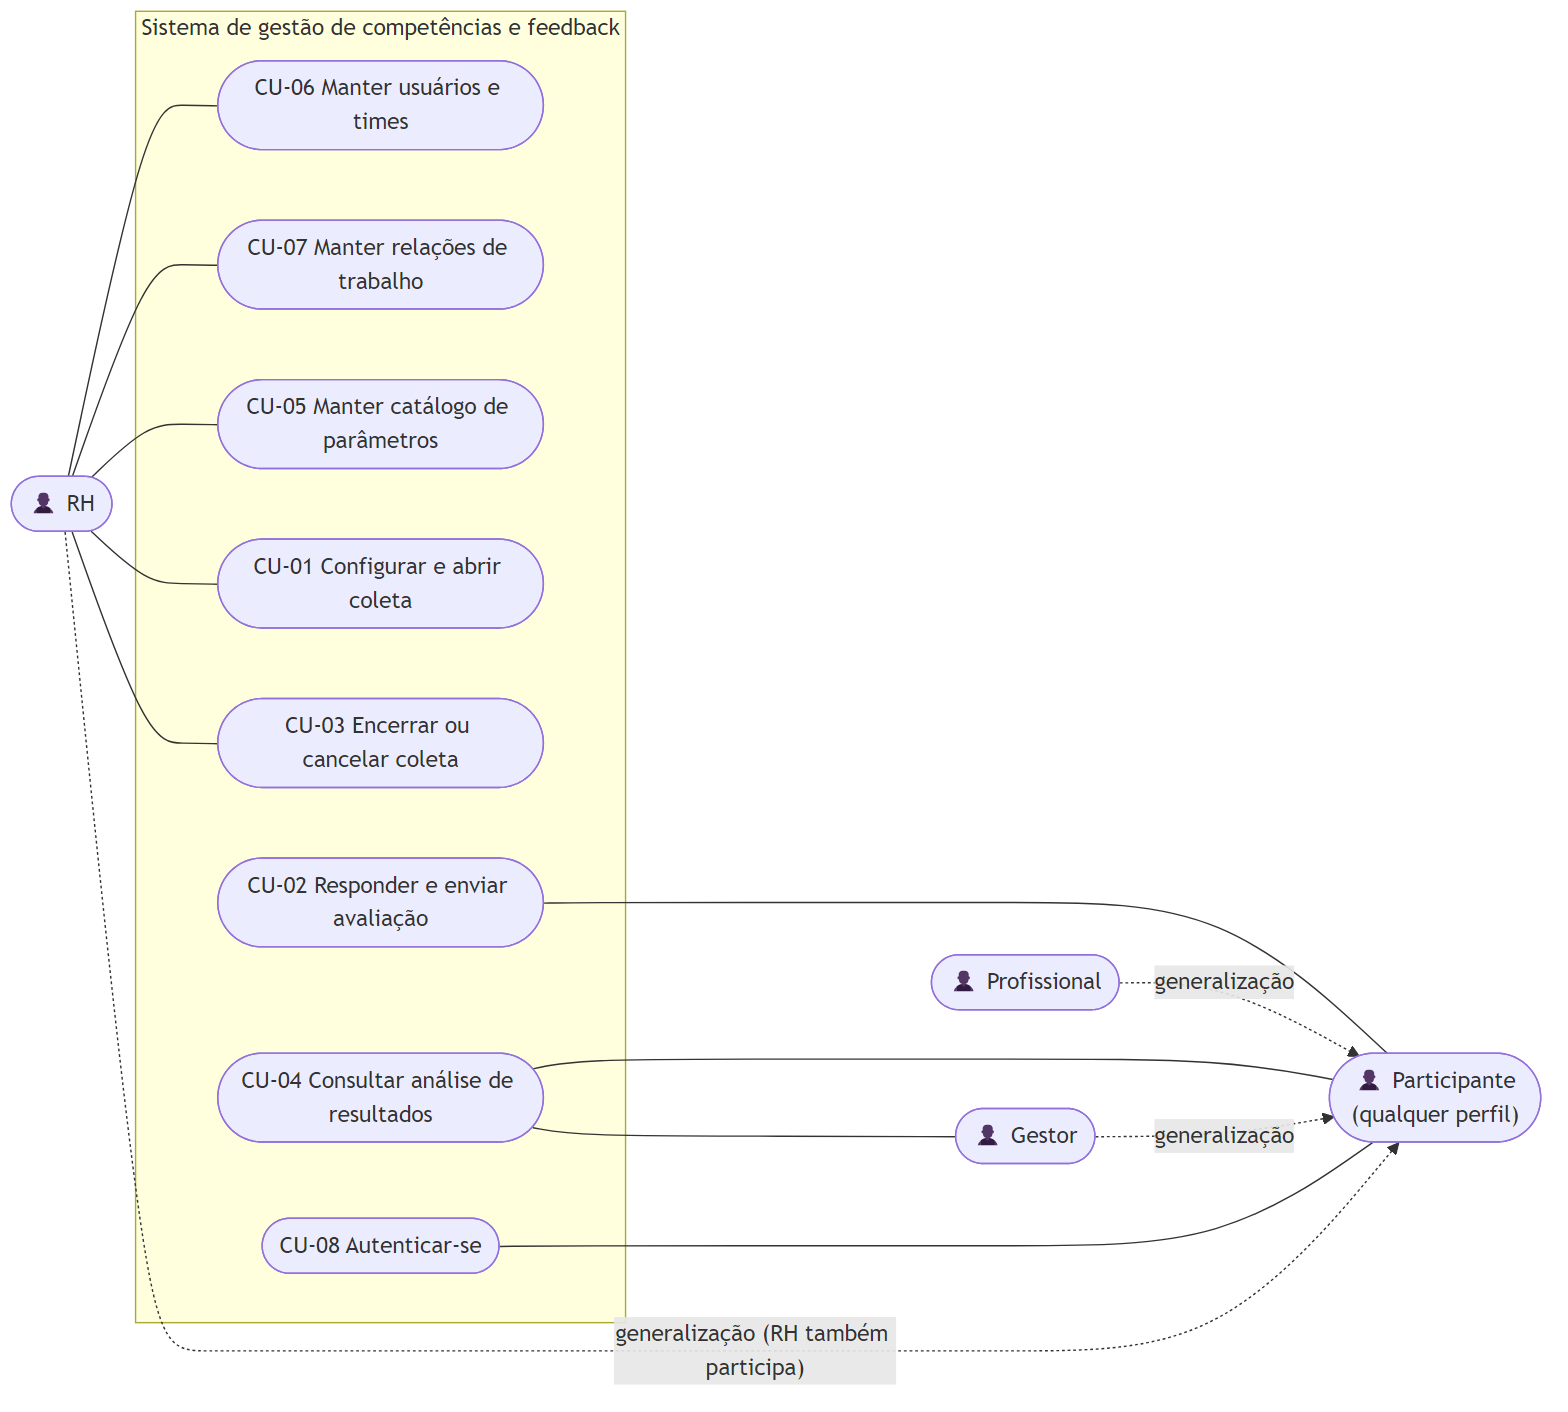
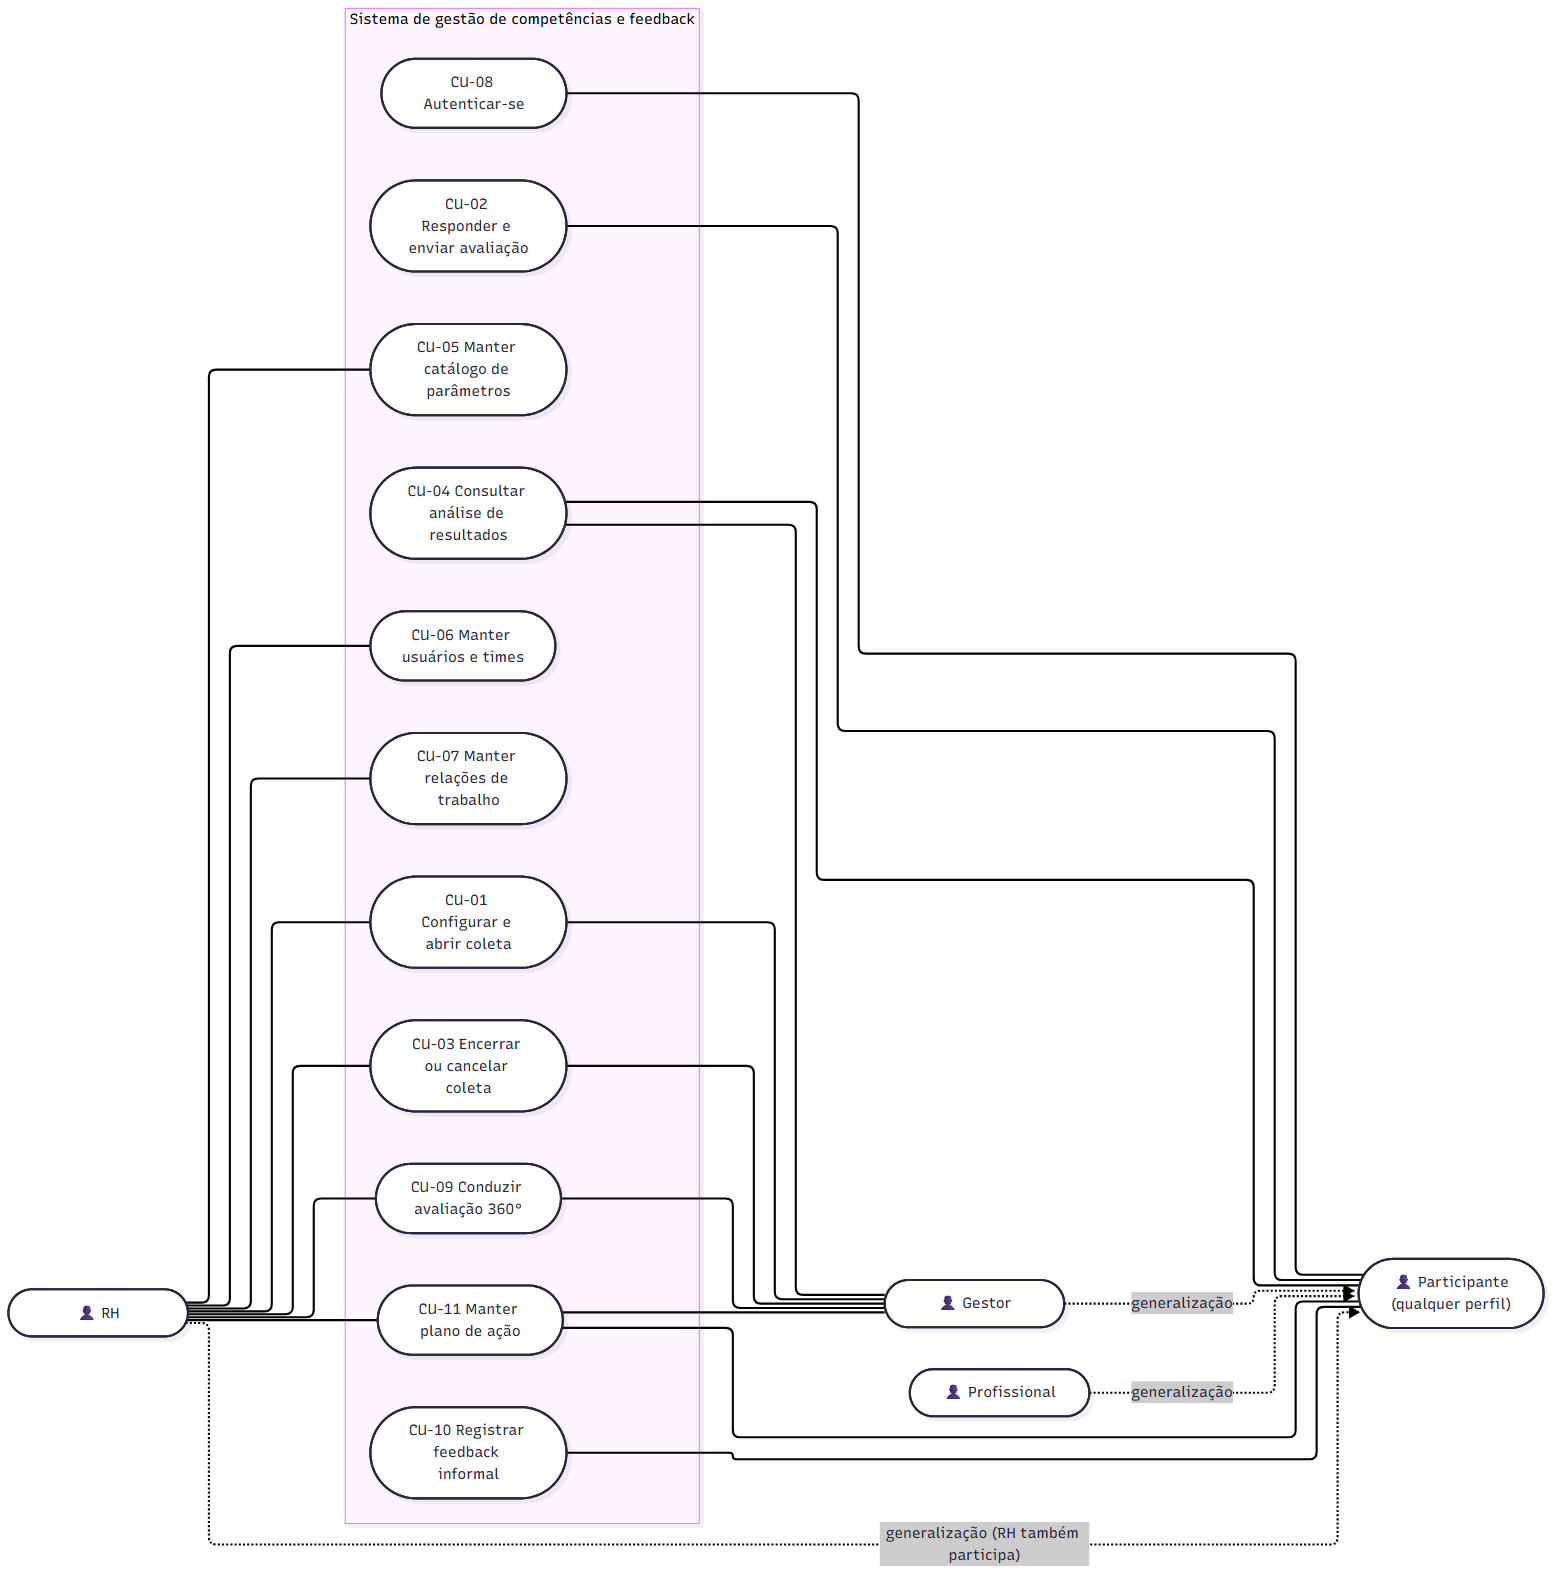
docs: regera as imagens dos diagramas e alinha a liberação dos resultados

diff --git a/docs/modelos/processo/README.md b/docs/modelos/processo/README.md
@@ -36,12 +36,14 @@ As entrevistas foram orais, sem gravação, e estão registradas como resumo ano
 | Publicar questionário e gerar avaliações | Sistema | RF09, RF10, RF17; RN05 | D1 |
 | Responder e enviar avaliações, inclusive autoavaliação | Avaliadores | CU-02; RF11, RF12, RF22 | D6 |
 | Acompanhar e encerrar a coleta | RH ou gestor | CU-03; RF13 | — |
-| Liberar resultados e calcular indicadores | Sistema | RF15; RN09, RN10, RN15 | D3 |
+| Liberar resultados e calcular indicadores | Sistema (no diagrama); gestor ou RH liberam os resultados (RN09) | CU-04; RF15; RN09, RN10, RN15 | D3 |
 | Consultar resultados e histórico | Colaborador avaliado | CU-04; RF14, RF15 | D3 |
 | Criar plano de ação com o colaborador | RH ou gestor | CU-11; RF18; RN13 | D4 |
 | Executar ações e registrar progresso | Colaborador avaliado | CU-11; RF18 | D4 |
 | Registrar verificações e novo feedback | RH ou gestor | CU-11; RN13 | D4 |
 | Registrar feedback informal com fato e impacto | Qualquer participante | CU-10; RF19 a RF21; RN16 | D2 |
+
+Na validação dos requisitos (E01, E02), a liberação dos resultados passou a ser feita pelo gestor ou pelo RH (RN09). O diagrama ainda mostra essa etapa na raia do sistema e deve ser ajustado na validação do BPMN (#10).
 
 O controle de acesso por perfil e escopo (RF01, RN14, RNF01, RNF07) e a auditoria (RF16) atravessam todas as etapas e tratam a dor D5.
 

diff --git a/docs/casos-de-uso/README.md b/docs/casos-de-uso/README.md
@@ -49,7 +49,7 @@ CU-01 a CU-05 têm autoria registrada nos respectivos documentos. O CU-01 foi de
 
 - **Generalização de atores:** RH, Gestor e Profissional herdam os casos de uso do Participante.
 - **Inclusão e extensão:** não foram usadas. Larman recomenda evitar `<<include>>` e `<<extend>>` quando não há reuso real. A autenticação (CU-08) é tratada como pré-condição dos demais.
-- **Dependência de dados:** CU-02 só pode ocorrer depois de CU-01 ou CU-09, que geram as avaliações; CU-04 depende de CU-03, que libera os resultados; CU-11 parte de um feedback recebido em CU-02 ou CU-10.
+- **Dependência de dados:** CU-02 só pode ocorrer depois de CU-01 ou CU-09, que geram as avaliações; CU-04 depende de CU-03, que encerra a coleta, e da liberação dos resultados pelo gestor ou pelo RH, feita no próprio CU-04 (RN09); CU-11 parte de um feedback recebido em CU-02 ou CU-10.
 - **Autoavaliação:** é respondida pelo CU-02, com avaliador igual ao receptor (RF22). Não exige caso de uso próprio.
 
 ## Casos de uso resumidos

diff --git a/docs/modelos/dominio/README.md b/docs/modelos/dominio/README.md
@@ -53,5 +53,5 @@ Os identificadores de requisitos seguem a [lista geral](../../requisitos/lista-g
 
 - Os requisitos documentais de eliminação e anonimização (RF-DOC-07 e RF-DOC-08) seguem a decisão da PV05 (conflito C01 resolvido): sem exclusão física no uso operacional e anonimização irreversível ao fim do prazo de retenção (RN12).
 - O 360°, a autoavaliação, o feedback informal, a classificação e os planos de ação (RF17 a RF22) foram modelados na consolidação da issue #40. O anonimato segue a identificação por modalidade (RN-DOC-02, conflito C02 resolvido).
-- As imagens em `exportacoes/` ainda refletem a versão anterior e precisam ser regeradas a partir das fontes `.mmd` com o comando acima.
+- As imagens em `exportacoes/` foram regeradas a partir das fontes `.mmd` em 23/11/2026, incluindo o MER de feedback e desenvolvimento.
 - Multiplicidade de perfis por conta, gestor único por time e grupo único por parâmetro foram validados (PV01 e PV06; E01, E02).

diff --git a/README.md b/README.md
@@ -35,7 +35,6 @@ As entrevistas E01 e E02 foram feitas oralmente e não foram gravadas. A E01 est
 | Decidir a necessidade de notificação por e-mail (lacuna A01 da arquitetura) | — |
 | Tratar os 2 achados maiores ainda abertos da [auditoria de normas ISO](docs/auditoria/auditoria-conformidade-iso.md): disponibilidade (AC06) e RIPD (AC19) | #40 |
 | Acrescentar ao dicionário e ao MER os atributos de liberação dos resultados, prazo de retenção e anonimização | #40 |
-| Regerar as imagens dos diagramas a partir dos `.mmd` (MER, modelo de domínio e casos de uso) e exportar o MER de feedback e desenvolvimento, que ainda não tem imagem | #40 |
 | Ligar cada tela do [protótipo no Figma](#protótipo) aos requisitos na matriz de rastreabilidade (lacuna L03) e testar o protótipo com usuários (achado AC21) | — |
 | Adicionar ao repositório a versão em PowerPoint da apresentação, depois da revisão | — |
 

diff --git a/docs/auditoria/auditoria-conformidade-iso.md b/docs/auditoria/auditoria-conformidade-iso.md
@@ -285,5 +285,6 @@ O diagnóstico acima reflete o estado de 21/11/2026. Depois dele, os requisitos 
 | AC14 | Tratado: conflito C01 resolvido, com anonimização irreversível ao fim do prazo de retenção (RN12, RF-DOC-07, RF-DOC-08). Com isso, a não conformidade pontual das seções 7 e 8 deixa de existir. |
 | AC20 | Parcial: RF-DOC-03, RF-DOC-06 e RF-DOC-09 foram validados; o caso de uso resumido ainda não foi escrito. |
 | AC25 | Parcial: os PRs #51 a #53 foram aprovados; #37 e #45 seguem sem revisão registrada. |
+| AC12 | Tratado: as imagens de todos os diagramas foram regeradas a partir das fontes `.mmd`, inclusive C4 e modelo de projeto. |
 | AC06, AC19 | Abertos: falta o RNF de disponibilidade e a avaliação de impacto à privacidade (RIPD). |
 | Demais | Sem mudança desde 21/11/2026. |
